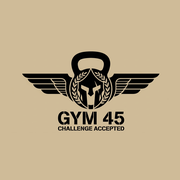
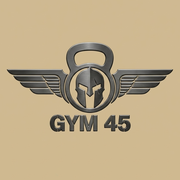
Новая иконка приложения в металлическом стиле
Claude-Session: https://claude.ai/code/session_01Ra1rABNMToB8a1aD8BK87N

Changed region(s): [[0.0278, 0.2222, 0.9722, 0.75]]

diff --git a/index.html b/index.html
@@ -12,8 +12,8 @@
 <title>Gym 45</title>
 <meta name="claude:viewport-fit-sides" content="cover">
 <!-- Иконка на экран «Домой» (Safari / Chrome) -->
-<link rel="apple-touch-icon" sizes="180x180" href="media/icon-180.png">
-<link rel="icon" type="image/png" sizes="192x192" href="media/icon-192.png">
+<link rel="apple-touch-icon" sizes="180x180" href="media/icon-180.png?v=2">
+<link rel="icon" type="image/png" sizes="192x192" href="media/icon-192.png?v=2">
 <meta name="apple-mobile-web-app-capable" content="yes">
 <meta name="apple-mobile-web-app-title" content="Gym 45">
 <meta name="apple-mobile-web-app-status-bar-style" content="black-translucent">
